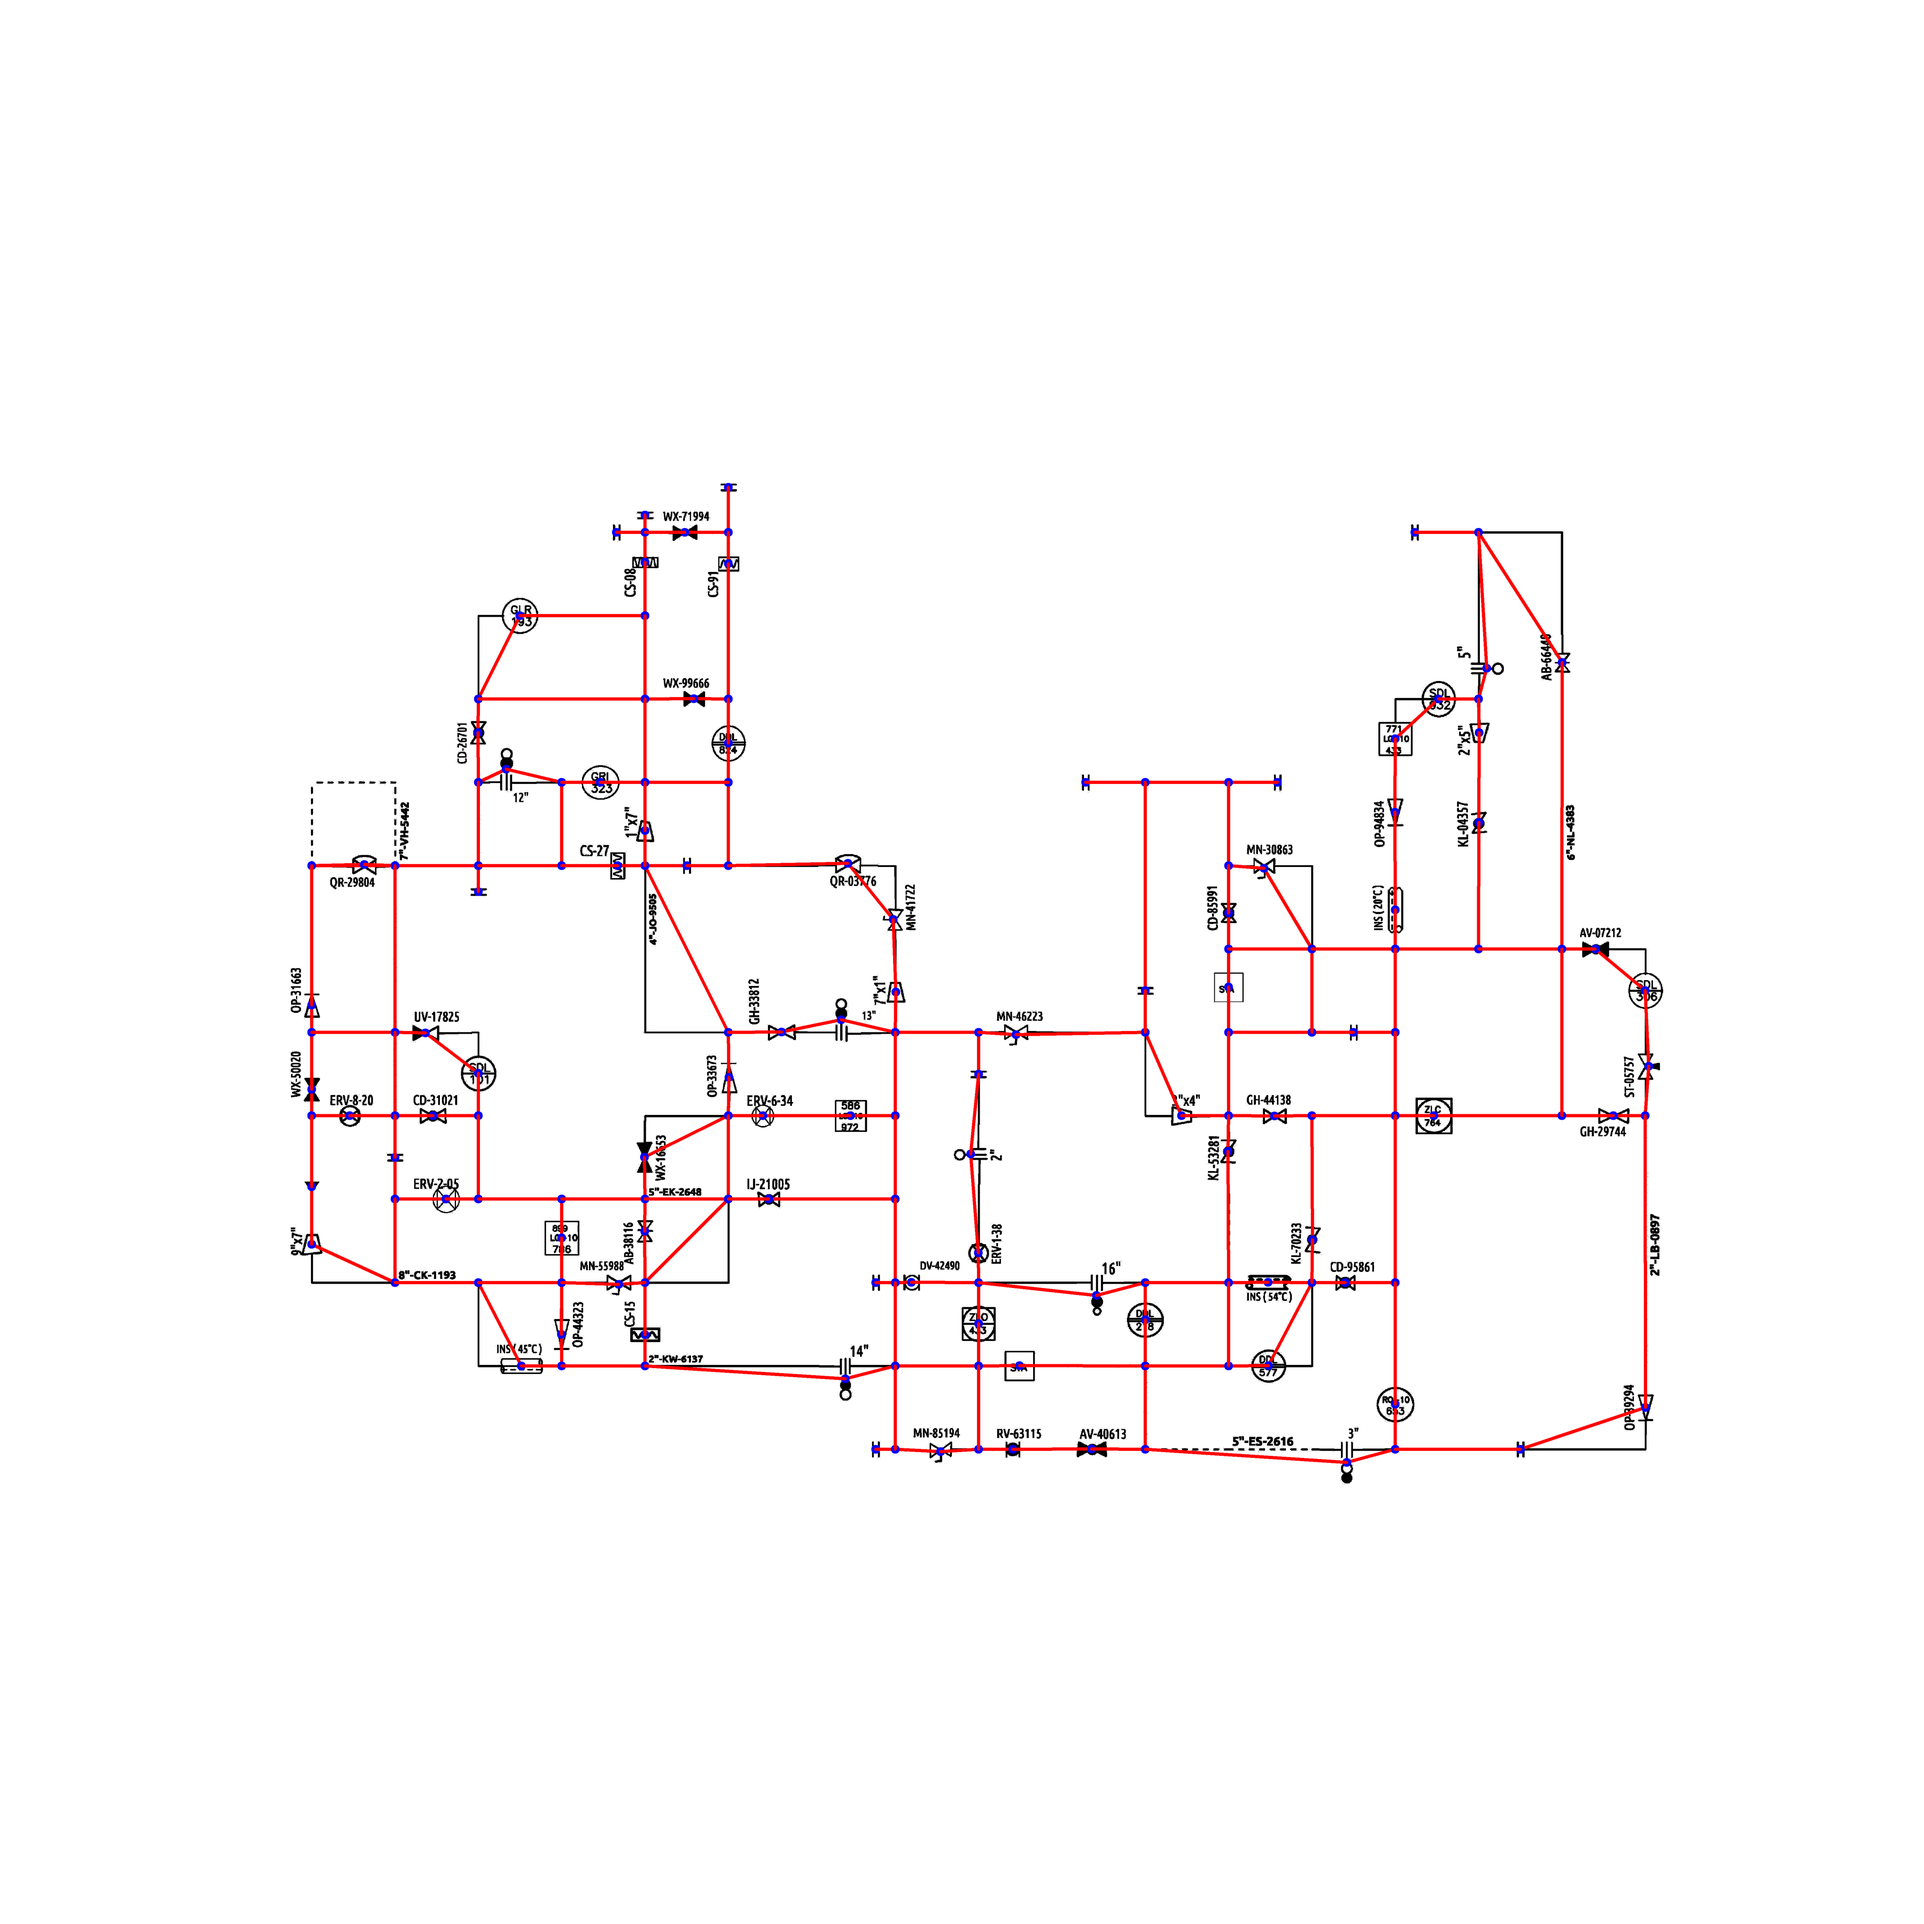
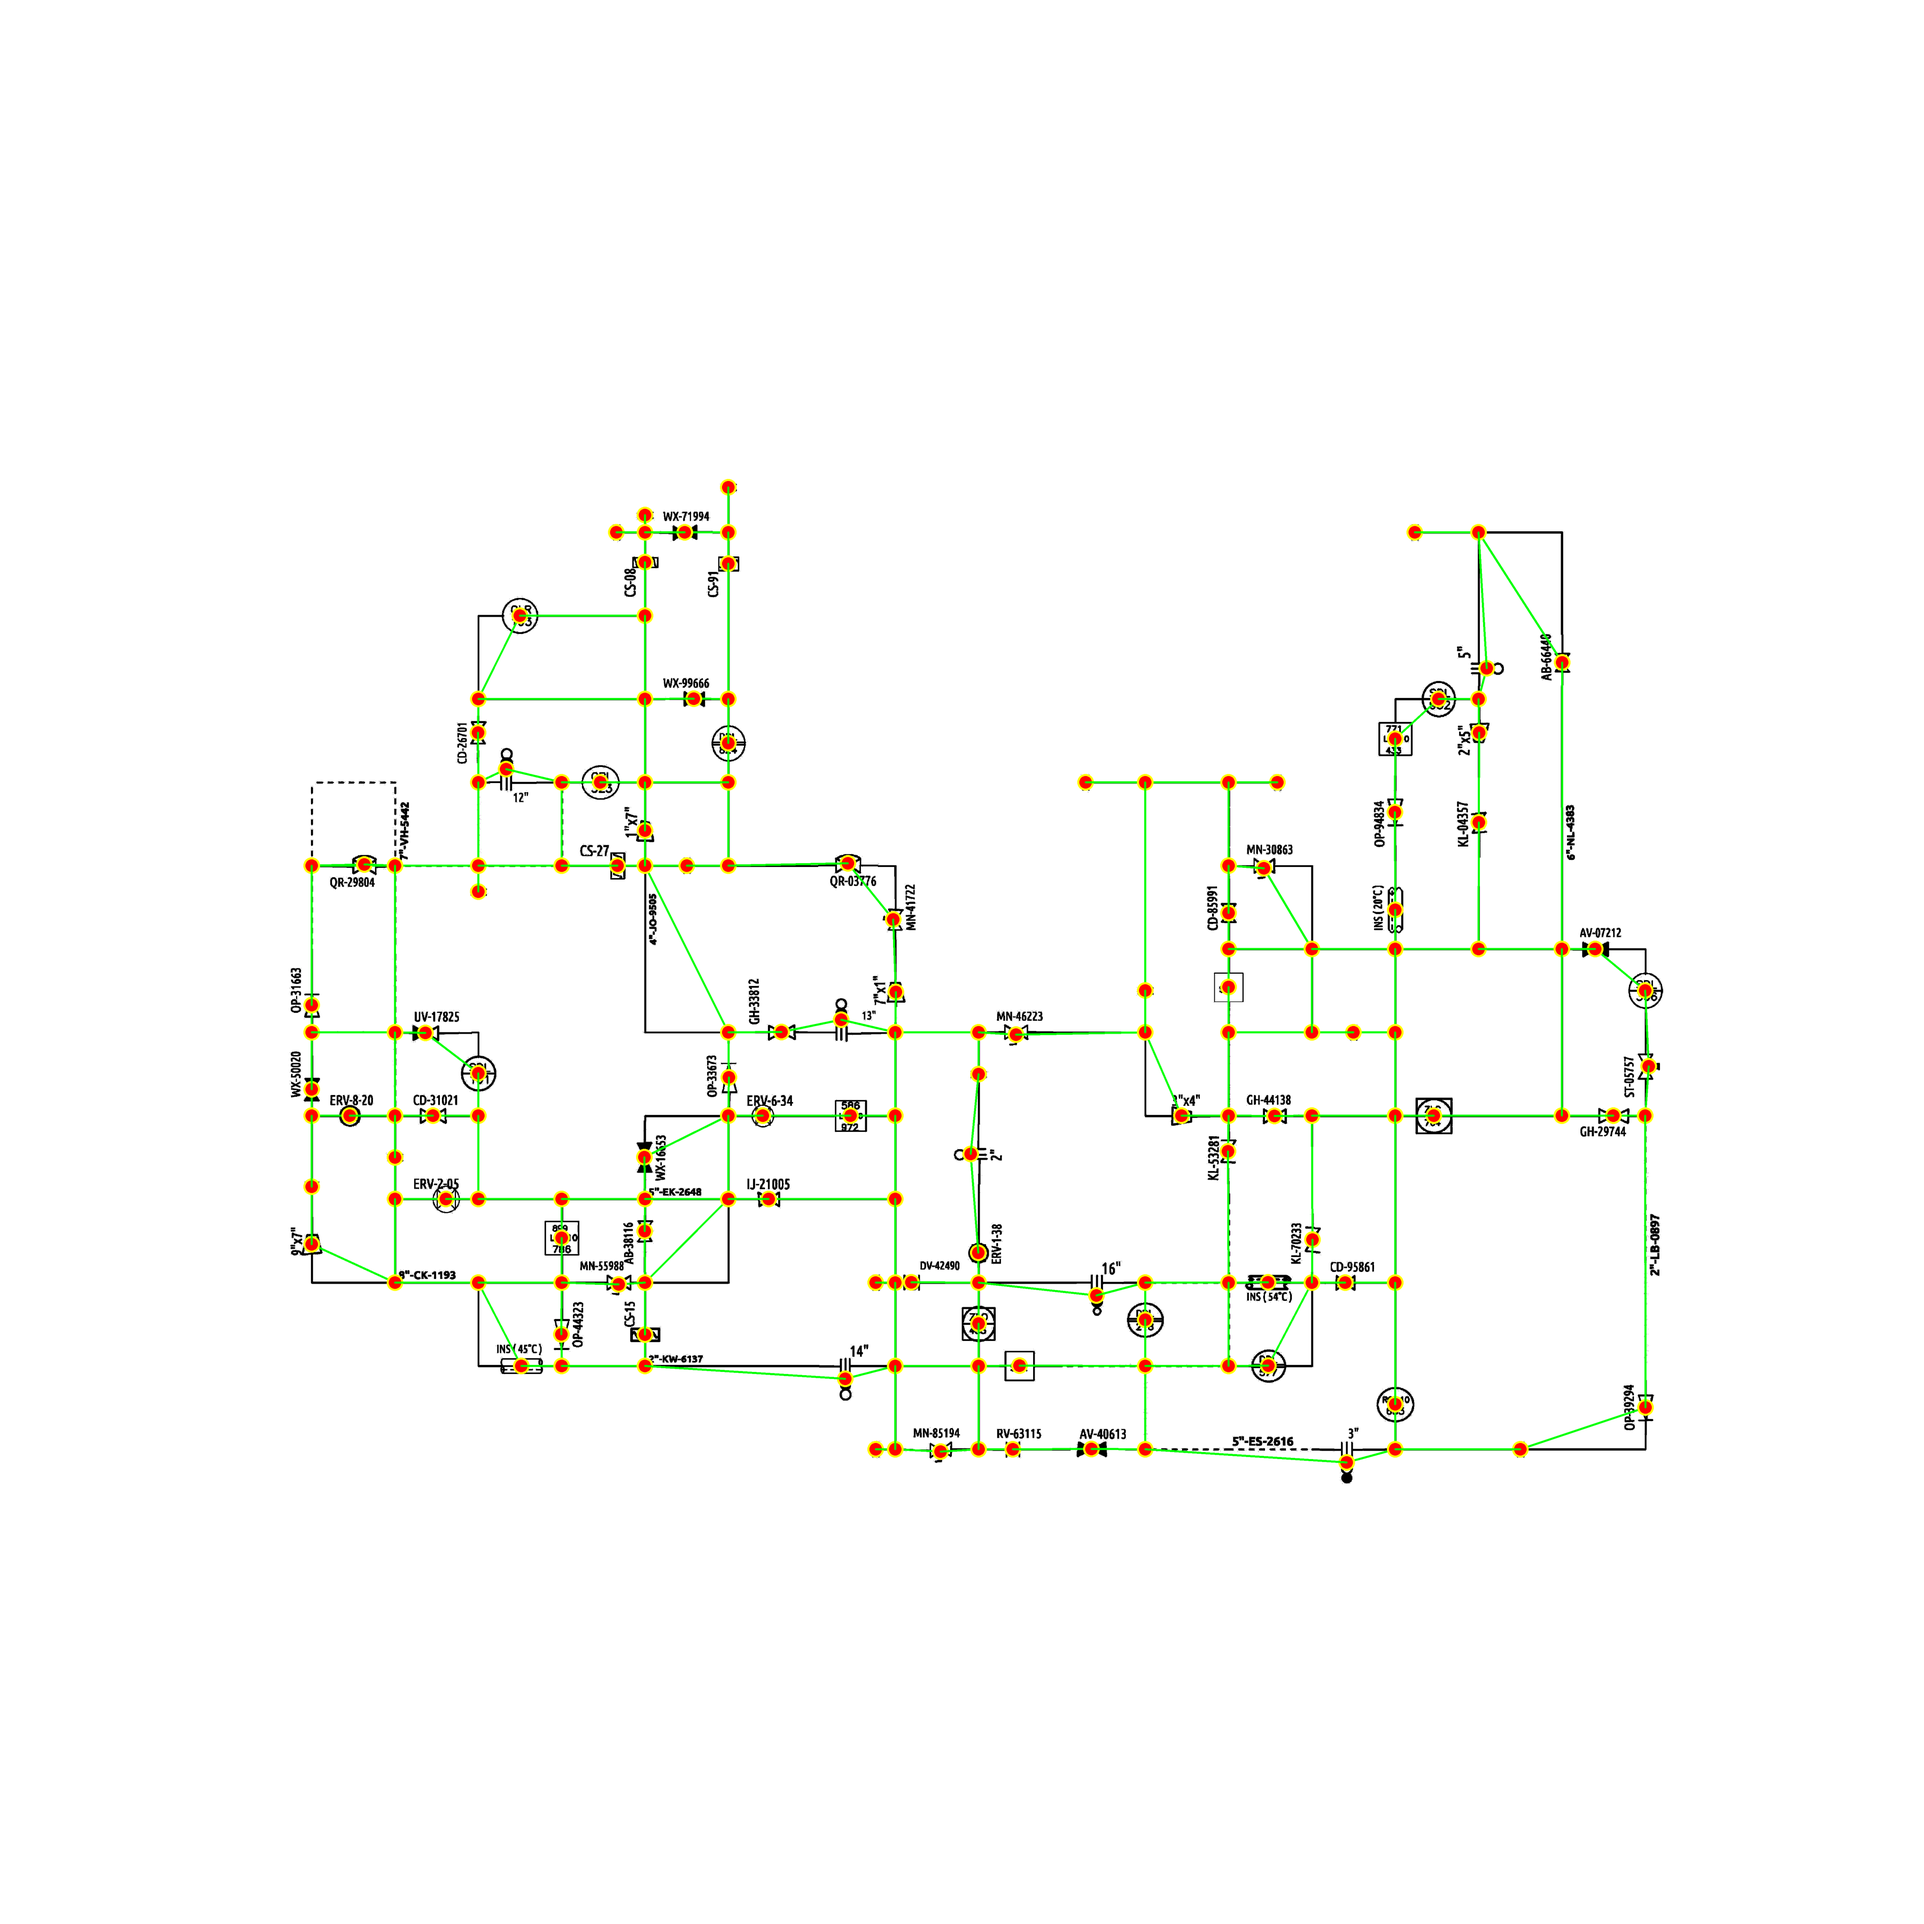
updated media

diff --git a/app.py b/app.py
@@ -29,7 +29,7 @@ st.title("P&ID QA System")
 # Image
 image_path = Path('data/0.png')
 original_image = cv2.imread(str(image_path))
-image = crop_image(original_image, 350, 3250, 800, 2800)
+image = crop_image(original_image, 350, 3250, 800, 3200)
 image = (image > 200).astype(np.uint8)*255
 
 
@@ -38,7 +38,8 @@ image = (image > 200).astype(np.uint8)*255
 ######################
 graph_as_image_path = Path('data/0_graph.png')
 graph_as_image = cv2.imread(str(graph_as_image_path))
-graph_as_image = crop_image(graph_as_image, 250, 3250, 800, 2800)
+graph_as_image = cv2.cvtColor(graph_as_image, cv2.COLOR_BGR2RGB)
+graph_as_image = crop_image(graph_as_image, 250, 3250, 800, 3200)
 graph_as_image = (graph_as_image > 200).astype(np.uint8)*255
 
 #####################
